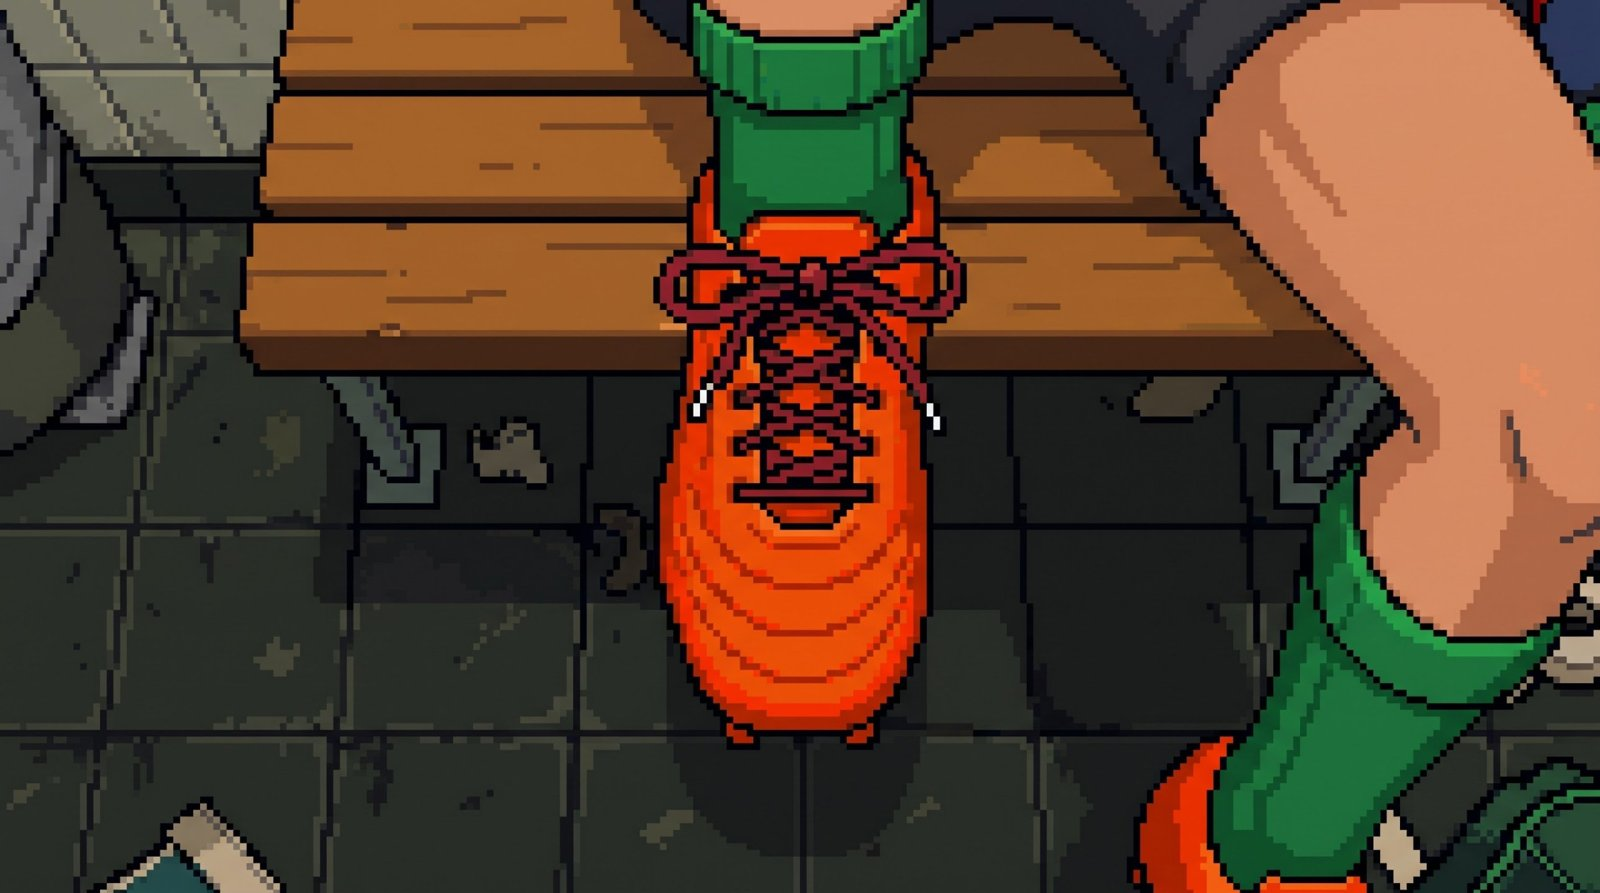
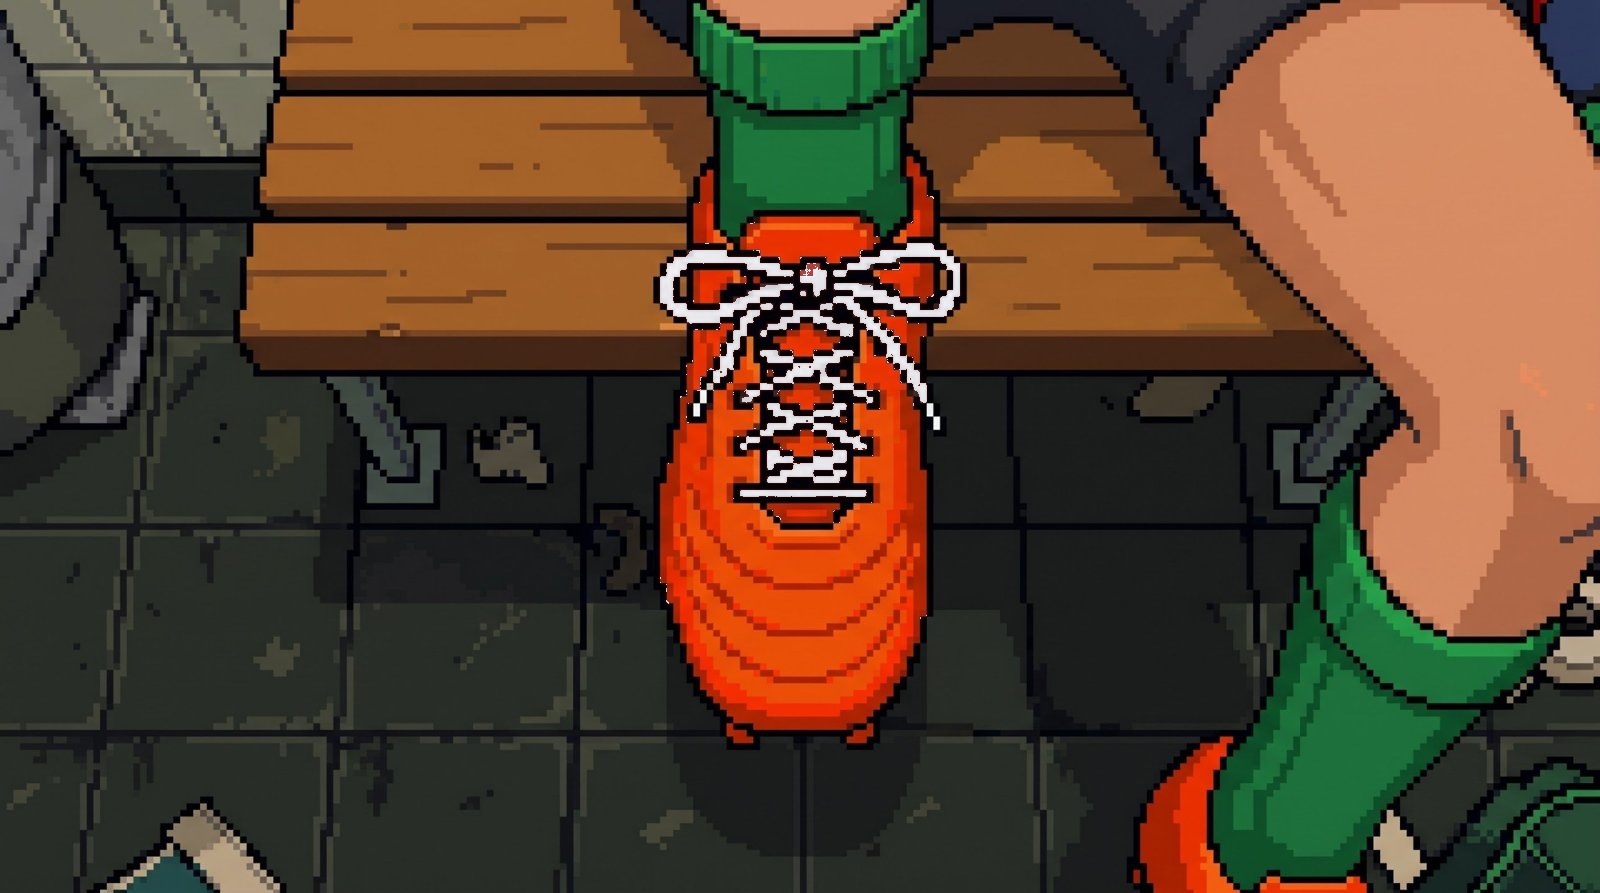
BUT: pixel-drawn swipe laces, ends and clock; white laces on the shoe
Claude-Session: https://claude.ai/code/session_01Y9XNosS9qXxorLv9Jh2D4n

Changed region(s): [[0.4062, 0.2721, 0.5938, 0.5745], [0.5938, 0.3024, 0.625, 0.3326]]

diff --git a/lace.js b/lace.js
@@ -74,41 +74,56 @@
   $('laceBack').addEventListener('click', () => close());
 
   // ---- drawing ----
-  const lace = (a, b, w, col) => { const [x0, y0] = P(...a), [x1, y1] = P(...b);
-    g.lineCap = 'round'; g.strokeStyle = '#1a0a0e'; g.lineWidth = w + 5 * sc * 2; g.beginPath(); g.moveTo(x0, y0); g.lineTo(x1, y1); g.stroke();
-    g.strokeStyle = col; g.lineWidth = w; g.beginPath(); g.moveTo(x0, y0); g.lineTo(x1, y1); g.stroke(); };
-  const txt = (s, x, y, size, col = '#fff') => { g.font = `700 ${size}px "Pixelify Sans", monospace`; g.textAlign = 'center'; g.textBaseline = 'middle';
+  // pixel drawing: everything snaps to a grid of square cells, like an 8-bit screen
+  const CELL = () => Math.max(4, Math.round(Math.min(W, H) / 95));
+  const cellsOf = (pts, w) => { const c = CELL(), R = Math.max(0.5, w / 2 / c), r = Math.ceil(R), set = new Set();
+    for (let i = 0; i < pts.length - 1 || i === 0; i++) { const [x0, y0] = pts[i], [x1, y1] = pts[Math.min(i + 1, pts.length - 1)];
+      const n = Math.max(1, Math.ceil(Math.hypot(x1 - x0, y1 - y0) / (c * 0.5)));
+      for (let k = 0; k <= n; k++) { const gx = Math.floor((x0 + (x1 - x0) * k / n) / c), gy = Math.floor((y0 + (y1 - y0) * k / n) / c);
+        for (let dy = -r; dy <= r; dy++) for (let dx = -r; dx <= r; dx++) if (dx * dx + dy * dy <= R * R) set.add((gx + dx) + ',' + (gy + dy)); }
+      if (pts.length < 2) break; }
+    return set; };
+  const fillCells = (set, col) => { const c = CELL(); g.fillStyle = col; for (const k of set) { const i = k.indexOf(','); g.fillRect(+k.slice(0, i) * c, +k.slice(i + 1) * c, c, c); } };
+  const pline = (pts, w, col) => fillCells(cellsOf(pts, w), col);
+  const pdot = (x, y, r, col) => fillCells(cellsOf([[x, y]], r * 2), col);
+  const lace = (a, b, w, col) => { const A = P(...a), B = P(...b), c = CELL();
+    pline([A, B], w + c * 2.2, '#140a10'); pline([A, B], w, col);
+    // a darker pixel stripe along the lace so it reads as twisted cord
+    const n = Math.max(2, Math.floor(Math.hypot(B[0] - A[0], B[1] - A[1]) / (c * 3))); g.fillStyle = col === '#ffffff' ? '#c9cede' : '#b8bccc';
+    for (let i = 1; i < n; i++) { const x = A[0] + (B[0] - A[0]) * i / n, y = A[1] + (B[1] - A[1]) * i / n; g.fillRect(Math.floor(x / c) * c, Math.floor(y / c) * c, c, c); } };
+  const txt = (s, x, y, size, col = '#fff') => { g.font = `${Math.round(size * 0.62)}px "Press Start 2P", monospace`; g.textAlign = 'center'; g.textBaseline = 'middle';
     g.fillStyle = '#000'; for (const [a, b] of [[3, 3], [-2, 2], [2, -2], [-2, -2]]) g.fillText(s, x + a, y + b); g.fillStyle = col; g.fillText(s, x, y); };
-  const drawPath = () => { const p = S.path.pts, k = S.prog;
-    const stroke = (from, to, w, col) => { g.beginPath(); for (let i = from; i <= to; i++) (i === from ? g.moveTo : g.lineTo).call(g, p[i][0], p[i][1]); g.lineWidth = w; g.strokeStyle = col; g.stroke(); };
-    g.lineCap = 'round'; g.lineJoin = 'round';
-    stroke(0, p.length - 1, 30, 'rgba(0,0,0,.6)'); stroke(0, p.length - 1, 22, '#7a1a26'); stroke(0, p.length - 1, 8, 'rgba(255,255,255,.25)');
-    if (k > 0) { stroke(0, k, 24, '#ffe14a'); stroke(0, k, 10, '#fff7c0'); }
-    // the ends: red to start, green to finish, an arrow on the way
-    const [sx, sy] = p[0], [ex, ey] = p[p.length - 1], pulse = 1 + Math.sin(performance.now() / 120) * 0.1;
-    g.fillStyle = '#000'; g.beginPath(); g.arc(sx, sy, 24 * pulse, 0, 7); g.fill(); g.fillStyle = '#e8361f'; g.beginPath(); g.arc(sx, sy, 19 * pulse, 0, 7); g.fill();
-    g.fillStyle = '#000'; g.beginPath(); g.arc(ex, ey, 24, 0, 7); g.fill(); g.fillStyle = '#3fe060'; g.beginPath(); g.arc(ex, ey, 19, 0, 7); g.fill();
+  const drawPath = () => { const p = S.path.pts, k = S.prog, c = CELL();
+    pline(p, 34, '#000'); pline(p, 24, '#6a1622'); pline(p, 8, '#9a3040');
+    if (k > 0) { const q = p.slice(0, k + 1); pline(q, 26, '#ffe14a'); pline(q, 10, '#fffbe0'); }
+    // the ends: red to start, green to finish (pixel discs), a chevron on the way
+    const [sx, sy] = p[0], [ex, ey] = p[p.length - 1], blink = Math.floor(performance.now() / 160) % 2;
+    pdot(sx, sy, 26, '#000'); pdot(sx, sy, 20, blink ? '#ff4a3a' : '#c8281a'); pdot(sx - 6, sy - 6, 5, '#ffb0a0');
+    pdot(ex, ey, 26, '#000'); pdot(ex, ey, 20, '#3fe060'); pdot(ex - 6, ey - 6, 5, '#c8ffc0');
     const mi = Math.min(p.length - 2, Math.max(k + 6, 12)), [ax, ay] = p[mi], [bx, by] = p[mi + 1], an = Math.atan2(by - ay, bx - ax);
-    g.save(); g.translate(ax, ay); g.rotate(an); g.fillStyle = '#fff'; g.beginPath(); g.moveTo(12, 0); g.lineTo(-6, -9); g.lineTo(-6, 9); g.closePath(); g.fill(); g.restore();
-    // the clock: a ring round the red end
-    const f = Math.max(0, S.left / S.time); g.strokeStyle = f < 0.3 ? '#ff4a3a' : '#fff'; g.lineWidth = 5; g.beginPath(); g.arc(sx, sy, 32, -Math.PI / 2, -Math.PI / 2 + f * Math.PI * 2); g.stroke(); };
+    const tip = [ax + Math.cos(an) * 12, ay + Math.sin(an) * 12], l = [ax + Math.cos(an + 2.4) * 12, ay + Math.sin(an + 2.4) * 12], r = [ax + Math.cos(an - 2.4) * 12, ay + Math.sin(an - 2.4) * 12];
+    pline([l, tip, r], 8, '#000'); pline([l, tip, r], 3, '#fff');
+    // the clock: a ring of pixel blocks round the red end
+    const f = Math.max(0, S.left / S.time), ring = new Set(), R = 36;
+    for (let a = 0; a < f * Math.PI * 2; a += 0.05) { const x = sx + Math.sin(a) * R, y = sy - Math.cos(a) * R; ring.add(Math.floor(x / c) + ',' + Math.floor(y / c)); }
+    fillCells(ring, f < 0.3 && blink ? '#ff4a3a' : '#fff'); };
   const draw = () => {
     g.save(); if (S.shake > 0) g.translate((Math.random() - 0.5) * 16 * S.shake, (Math.random() - 0.5) * 16 * S.shake);
     g.fillStyle = '#12151a'; g.fillRect(-20, -20, W + 40, H + 40);
     const won = S.phase === 'won' || (S.phase === 'end' && S.win);
     if (OPEN.complete) g.drawImage(OPEN, ox, oy, 2576 * sc, 1438 * sc);
     // the laces threaded so far
-    const n = Math.min(S.k, SEGS.length); for (let i = 0; i < n; i++) lace(SEGS[i][0], SEGS[i][1], 16 * sc * 2, i % 2 ? '#8a1c2a' : '#a3263a');
     if (won && TIED.complete) { g.globalAlpha = Math.min(1, S.t * 2.5 + (S.phase === 'end' ? 1 : 0)); g.drawImage(TIED, ox, oy, 2576 * sc, 1438 * sc); g.globalAlpha = 1; }
     g.fillStyle = 'rgba(0,0,0,.28)'; g.fillRect(0, 0, W, H);   // dims the picture so the laces to swipe stand out
+    if (!won) { const n = Math.min(S.k, SEGS.length); for (let i = 0; i < n; i++) lace(SEGS[i][0], SEGS[i][1], 16 * sc * 2, i % 2 ? '#e8ecf6' : '#ffffff'); }
     if (S.phase === 'swipe') drawPath();
-    for (const s of S.sparks) { s.t += 1 / 60; g.fillStyle = `rgba(255,225,74,${1 - s.t * 2})`; g.fillRect(s.x - 3 + s.t * 30, s.y - 3 - s.t * 40, 6, 6); }
+    for (const s of S.sparks) { s.t += 1 / 60; const c = CELL(); g.fillStyle = s.t < 0.25 ? '#ffe14a' : '#ff9a1f'; g.fillRect(Math.floor((s.x + s.t * 30) / c) * c, Math.floor((s.y - s.t * 40) / c) * c, c, c); }
     S.sparks = S.sparks.filter((s) => s.t < 0.5);
     g.restore();
     if (S.flash > 0) { g.fillStyle = `rgba(255,255,255,${S.flash})`; g.fillRect(0, 0, W, H); }
     // HUD: progress, hearts
     const bw = Math.min(260, W * 0.4); g.fillStyle = 'rgba(0,0,0,.7)'; g.fillRect(12, 12, bw + 16, 44); g.fillStyle = '#333'; g.fillRect(20, 36, bw, 12);
-    g.fillStyle = '#3fe060'; g.fillRect(20, 36, bw * Math.min(1, S.k / N), 12); g.font = '700 14px "Pixelify Sans", monospace'; g.textAlign = 'left'; g.fillStyle = '#fff'; g.textBaseline = 'middle';
+    g.fillStyle = '#3fe060'; g.fillRect(20, 36, bw * Math.min(1, S.k / N), 12); g.font = '12px "Press Start 2P", monospace'; g.textAlign = 'left'; g.fillStyle = '#fff'; g.textBaseline = 'middle';
     g.fillText(`SZNUROWANIE ${Math.min(S.k, N)}/${N}`, 20, 24); g.fillStyle = '#ff4a5a'; g.textAlign = 'right'; g.fillText('♥'.repeat(Math.max(0, S.lives)) + '♡'.repeat(Math.max(0, 3 - S.lives)), 20 + bw, 24);
     if (S.phase === 'ready') { txt('ZAWIĄŻ BUTA!', W / 2, H * 0.36, Math.min(56, W / 9), '#ffe14a'); txt('Przesuń palcem po sznurówce: od CZERWONEGO do ZIELONEGO', W / 2, H * 0.5, Math.min(18, W / 30)); txt('Coraz szybciej! · dotknij, żeby zacząć', W / 2, H * 0.58, Math.min(16, W / 34), '#8fd99a'); }
     if (S.phase === 'go') txt(S.t < 0.5 ? 'GOTOWY…' : 'START!', W / 2, H * 0.45, 48, '#ffe14a');
@@ -129,5 +144,5 @@
   let last = 0, raf = 0;
   const loop = (now) => { if (!S.on) return; raf = requestAnimationFrame(loop); const dt = Math.min(0.05, (now - (last || now)) / 1000); last = now; try { update(dt); draw(); } catch (e) { window.__laceErr = String(e.stack || e); } };
   const close = () => { S.on = false; cancelAnimationFrame(raf); root.hidden = true; if (MUS) MUS.pause(); if (S.onExit) S.onExit(); };
-  window.LACE = { start(onExit) { S.onExit = onExit; root.hidden = false; start(); S.on = true; last = 0; if (MUS) MUS.play().catch(() => {}); cancelAnimationFrame(raf); raf = requestAnimationFrame(loop); }, _S: S };
+  window.LACE = { get _S() { return S; }, start(onExit) { S.onExit = onExit; root.hidden = false; start(); S.on = true; last = 0; if (MUS) MUS.play().catch(() => {}); cancelAnimationFrame(raf); raf = requestAnimationFrame(loop); }, _S: S };
 })();
